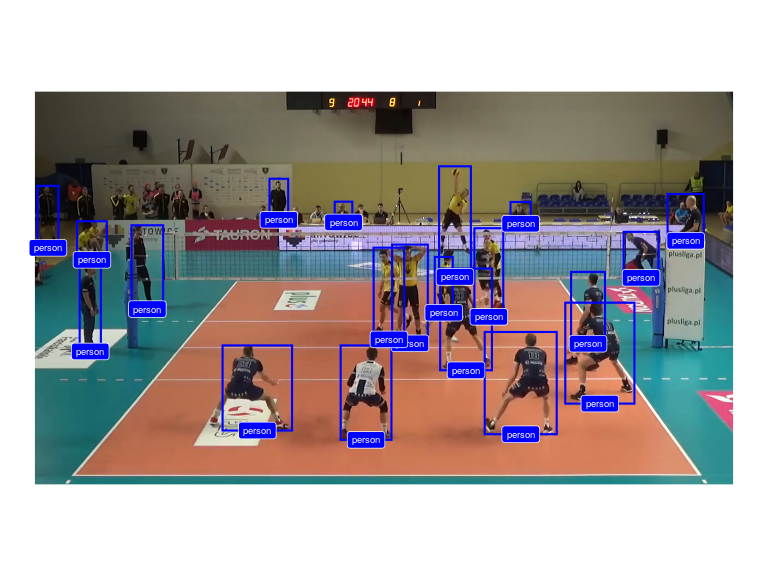
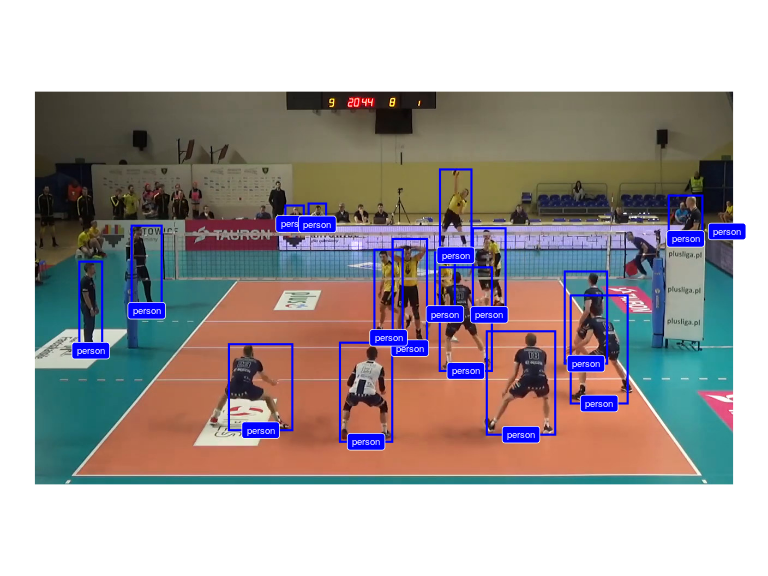
use letterboxing in inference v0.0.10

diff --git a/README.md b/README.md
@@ -59,6 +59,7 @@ Now we can use the network to detect objects in our image:
 dets <- ovml_yolo_detect(dn, img, conf = 0.3)
 dets <- dets[dets$class %in% c("person", "sports ball"), ]
 ovml_ggplot(img, dets)
+#> Warning: Removed 1 rows containing missing values (geom_rect).
 ```
 
 <img src="man/figures/README-ex3-1.png" width="100%" />
